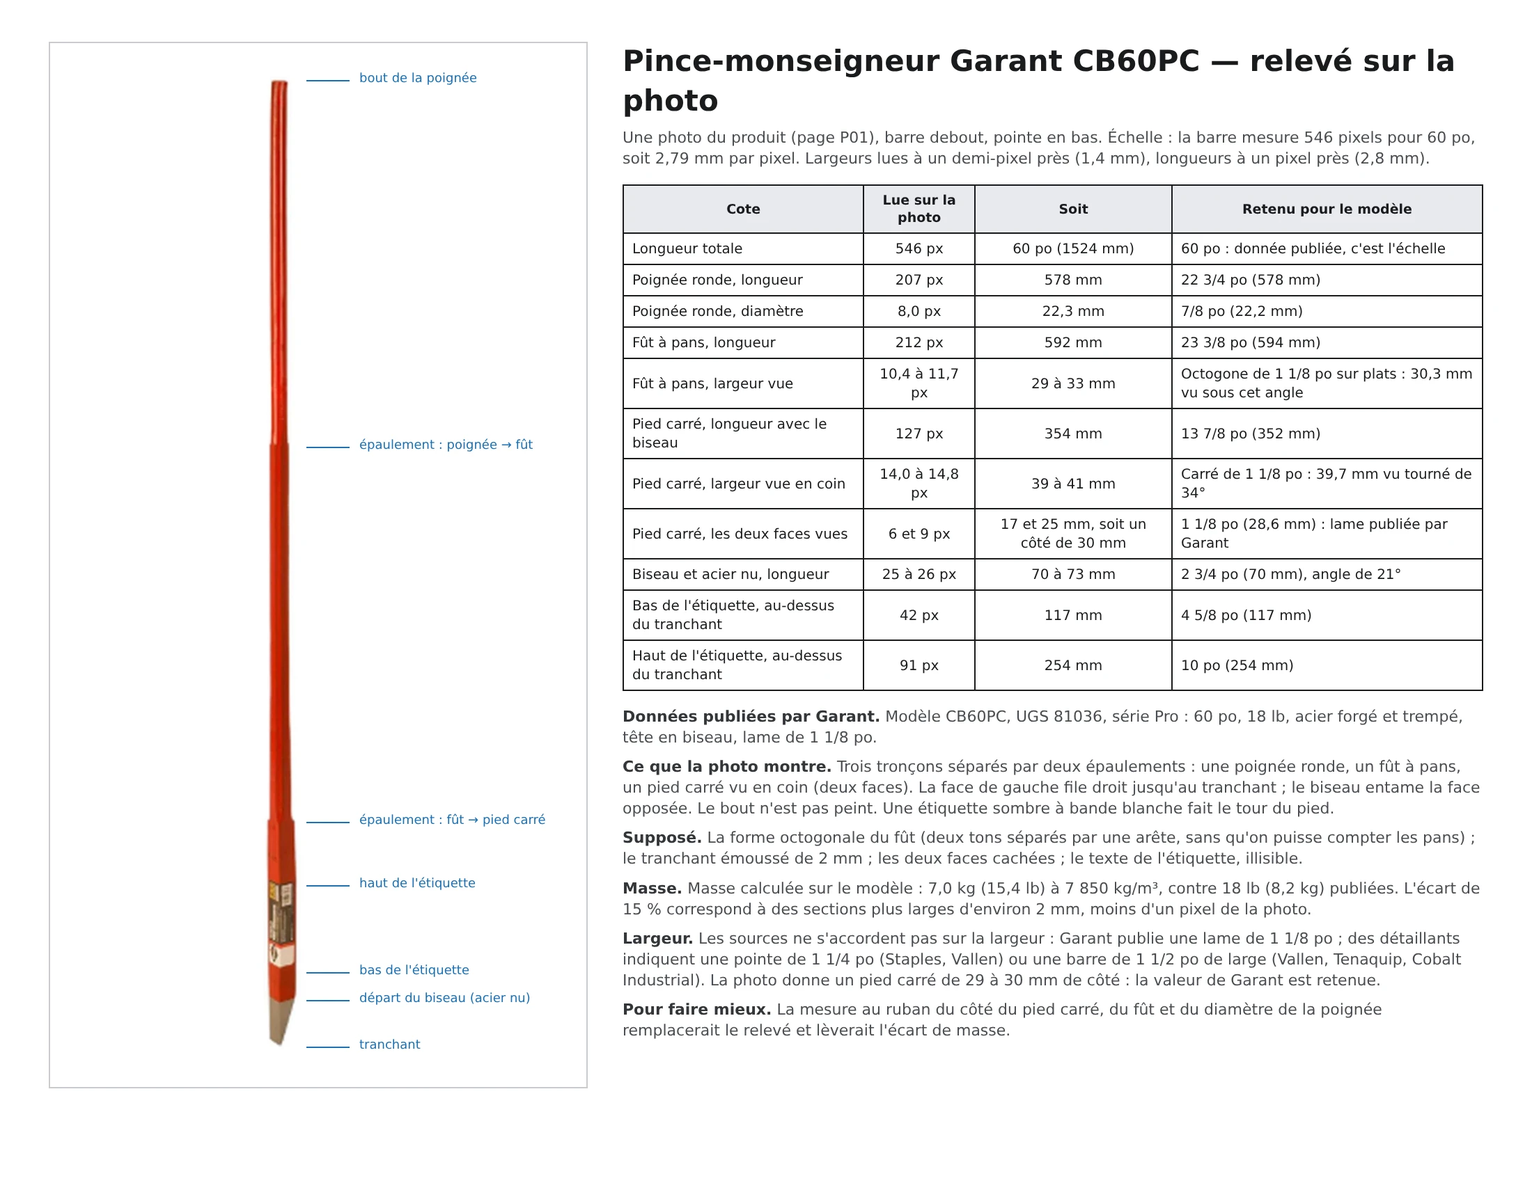
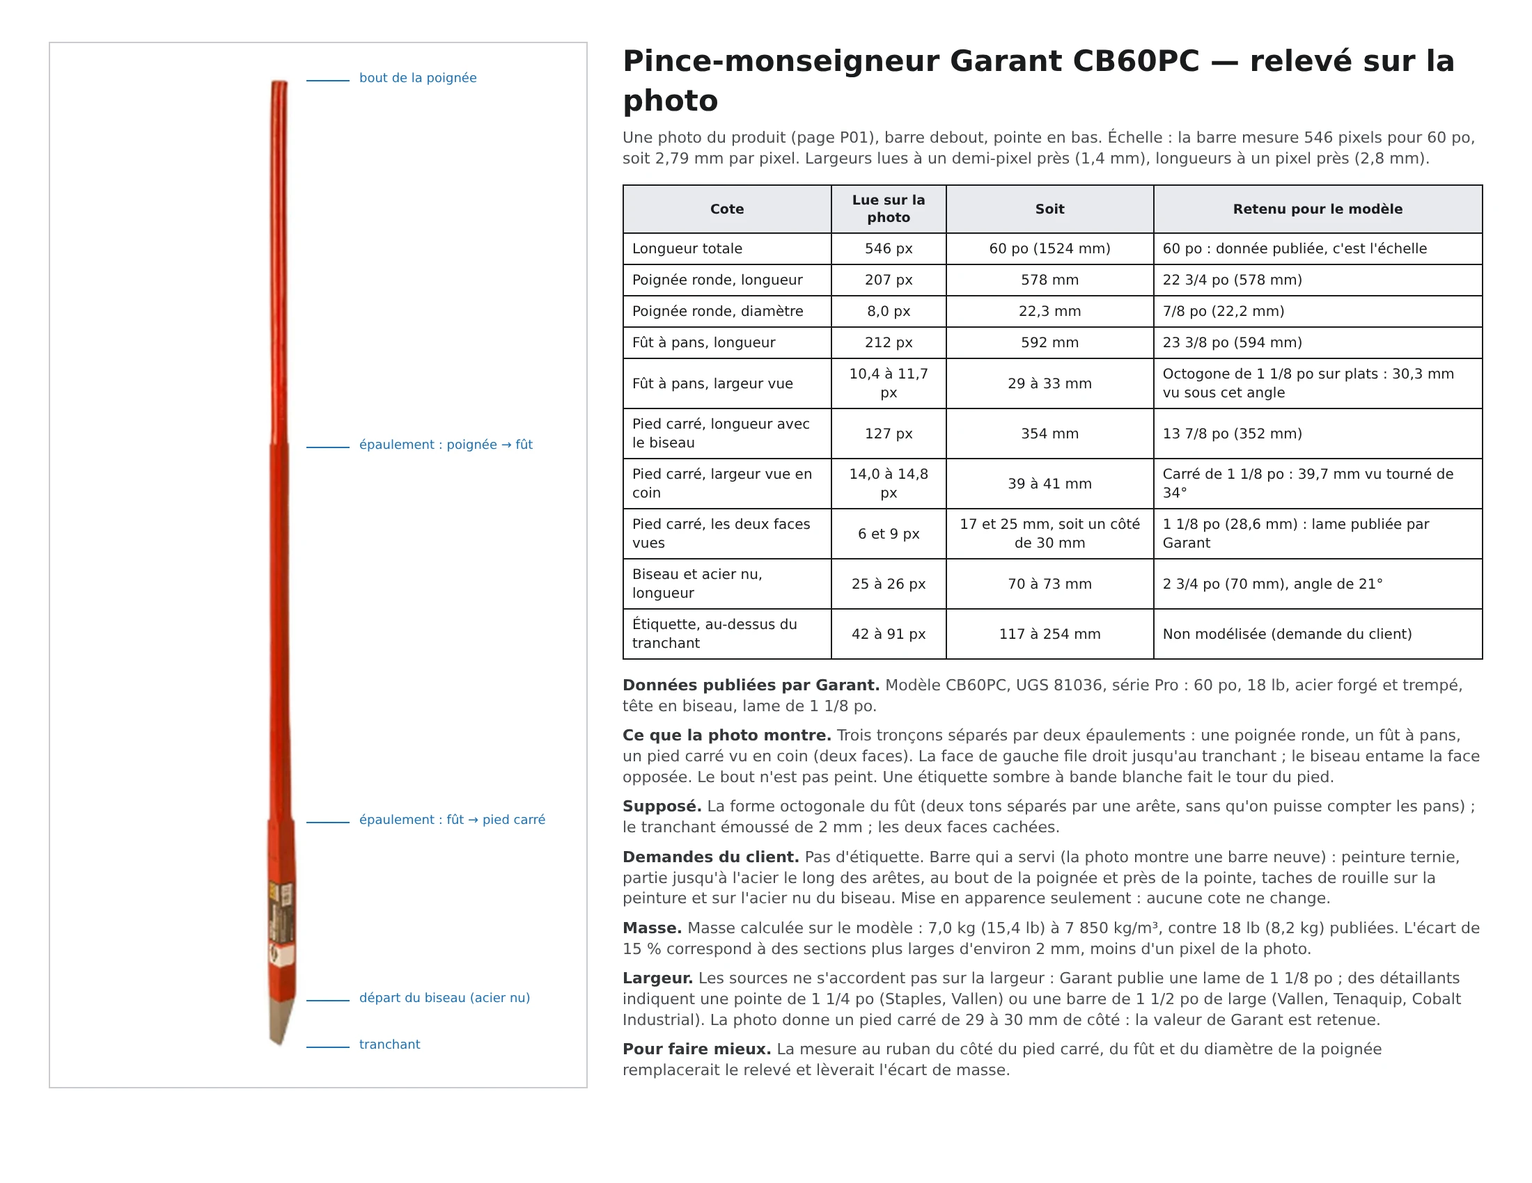
Pince-monseigneur : étiquette retirée, barre usée et piquée de rouille (demandes du client)
Peinture ternie, partie jusqu'à l'acier le long des arêtes, au bout de la
poignée et près de la pointe ; taches de rouille sur la peinture et sur l'acier
nu du biseau. Mise en apparence seulement : aucune cote ne change. En vue
éclatée, les quatre zones s'écartent pour montrer les sections.

Matériaux : réglage « wear » des finitions (acier à nu par plaques et où
l'attribut aWear du maillage est élevé), réglages par-dessus une finition de la
palette dans withFinish(), rouille non métallique sur un métal.

Fiche, page du relevé, vignette et README mis à jour.

Claude-Session: https://claude.ai/code/session_015N4WstEPpKJFqsFo6BBpyB

diff --git a/src/models/pince-monseigneur/index.js b/src/models/pince-monseigneur/index.js
@@ -8,7 +8,13 @@
 // Tout le reste est relevé sur la photo, à un demi-pixel près (1,4 mm) sur les
 // largeurs et un pixel (2,8 mm) sur les longueurs, puis arrondi au 1/8 po :
 // longueurs des trois tronçons, diamètre de la poignée, longueur du biseau
-// (laissé en acier nu), place de l'étiquette.
+// (laissé en acier nu).
+//
+// Demandes du client : pas d'étiquette (la photo en montre une, enroulée sur le
+// pied carré), et une barre qui a servi — peinture usée jusqu'à l'acier sur les
+// arêtes, au bout de la poignée et près de la pointe, taches de rouille. La
+// photo montre une barre neuve : l'usure est une mise en apparence, elle ne
+// change aucune cote.
 //
 // Repère de la barre, en millimètres : s le long de l'axe, de 0 (bout de la
 // poignée) à L (tranchant) ; u et v en travers. La face v = +h est la face
@@ -36,8 +42,6 @@ export const PIED = { long: L - POIGNEE.long - FUT.long };
 export const BISEAU = { long: (2 + 3 / 4) * IN, tranchant: 2 };
 /** Épaulements : poignée → fût (flare d'environ 2,5 px), fût → pied (1 à 2 px). */
 export const EPAULE = { fut: 8, pied: 6 };
-/** Étiquette enroulée sur le pied carré : distances au tranchant relevées sur la photo. */
-export const ETIQUETTE = { bas: (4 + 5 / 8) * IN, haut: 10 * IN, blanc: 0.27 };
 /** Masse volumique de l'acier (kg/m³), pour le contrôle de la masse. */
 export const ACIER = 7850;
 
@@ -68,14 +72,31 @@ function section(rho) {
 const entre = (a, b, t) => section((phi) => a(phi) + (b(phi) - a(phi)) * S01(t));
 
 /**
- * Volume fermé passant par des sections [{ s, pts }] de N points, dans le
- * repère du modèle : s le long de −X (pointe à gauche), u le long de −Z,
- * v le long de Y, axe à h du sol. Arêtes de moins de 30° lissées.
+ * Usure par point d'une section (attribut aWear, voir withFinish) : fond partout, 1 sur les
+ * arêtes (un sommet tous les `pas` points) et `voisin` sur les points d'à côté.
  */
-function volume(sections) {
-  const rings = sections.map(({ s, pts }) => pts.map(([u, v]) => place(s, u, v)));
-  const pos = [];
-  const tri = (a, b, c) => pos.push(...a, ...b, ...c);
+function usure(fond, pas = 0, voisin = 0) {
+  const w = new Array(N).fill(fond);
+  if (pas) for (let j = pas / 2; j < N; j += pas) { w[j] = 1; for (const k of [j - 1, j + 1]) w[(k + N) % N] = Math.max(fond, voisin); }
+  return w;
+}
+const melange = (a, b, t) => a.map((v, j) => v + (b[j] - v) * S01(t));
+/** Fond d'usure des trois tronçons (mains sur la poignée, travail près de la pointe) et arêtes. */
+const USURE = { bout: 1, poignee: 0.42, fut: 0.12, pied: 0.16, pointe: 0.6, coupe: 0 };
+const usurePoignee = () => usure(USURE.poignee);
+const usureFut = () => usure(USURE.fut, 8, 0.45);
+const usurePied = (fond = USURE.pied) => usure(fond, 16, Math.max(0.35, fond));
+
+/**
+ * Volume fermé passant par des sections [{ s, pts, w }] de N points (w : usure
+ * par point), dans le repère du modèle : s le long de −X (pointe à gauche),
+ * u le long de −Z, v le long de Y, axe à h du sol. bouts : usure des deux
+ * faces d'extrémité. Arêtes de moins de 30° lissées.
+ */
+function volume(sections, bouts = [USURE.coupe, USURE.coupe]) {
+  const rings = sections.map(({ s, pts, w }) => pts.map(([u, v], j) => ({ p: place(s, u, v), w: w[j] })));
+  const pos = [], wear = [];
+  const tri = (...abc) => abc.forEach(({ p, w }) => { pos.push(...p); wear.push(w); });
   for (let i = 0; i < rings.length - 1; i++) {
     const A = rings[i], B = rings[i + 1];
     for (let j = 0; j < N; j++) {
@@ -84,17 +105,18 @@ function volume(sections) {
       tri(A[j], B[k], B[j]);
     }
   }
-  const bouche = (ring, sens) => {
-    const c = [0, 0, 0];
-    ring.forEach((p) => { c[0] += p[0] / N; c[1] += p[1] / N; c[2] += p[2] / N; });
+  const bouche = (ring, sens, w) => {
+    const c = { p: [0, 0, 0], w };
+    ring.forEach(({ p }) => { c.p[0] += p[0] / N; c.p[1] += p[1] / N; c.p[2] += p[2] / N; });
+    const bord = ring.map(({ p }) => ({ p, w }));
     for (let j = 0; j < N; j++) {
       const k = (j + 1) % N;
-      if (sens) tri(c, ring[k], ring[j]); else tri(c, ring[j], ring[k]);
+      if (sens) tri(c, bord[k], bord[j]); else tri(c, bord[j], bord[k]);
     }
   };
-  bouche(rings[0], true);
-  bouche(rings[rings.length - 1], false);
-  return solide(pos);
+  bouche(rings[0], true, bouts[0]);
+  bouche(rings[rings.length - 1], false, bouts[1]);
+  return solide(pos, wear);
 }
 
 /** Point du repère de la barre (s, u, v en mm) dans le repère du modèle (m). */
@@ -102,11 +124,15 @@ function place(s, u, v) {
   return [(L / 2 - s) * MM, (h + v) * MM, -u * MM];
 }
 
-/** Géométrie fermée à partir de triangles : faces tournées vers l'extérieur, normales lissées sous 30°. */
-function solide(pos) {
-  if (volumeSigne(pos) < 0) for (let i = 0; i < pos.length; i += 9) for (let k = 0; k < 3; k++) { const t = pos[i + 3 + k]; pos[i + 3 + k] = pos[i + 6 + k]; pos[i + 6 + k] = t; }
+/** Géométrie fermée à partir de triangles : faces tournées vers l'extérieur, normales lissées sous 30°, usure par sommet. */
+function solide(pos, wear) {
+  if (volumeSigne(pos) < 0) {
+    for (let i = 0; i < pos.length; i += 9) for (let k = 0; k < 3; k++) { const t = pos[i + 3 + k]; pos[i + 3 + k] = pos[i + 6 + k]; pos[i + 6 + k] = t; }
+    for (let i = 0; i < wear.length; i += 3) { const t = wear[i + 1]; wear[i + 1] = wear[i + 2]; wear[i + 2] = t; }
+  }
   const geo = new THREE.BufferGeometry();
   geo.setAttribute('position', new THREE.Float32BufferAttribute(pos, 3));
+  geo.setAttribute('aWear', new THREE.Float32BufferAttribute(wear, 1));
   return creaseNormals(geo, (30 * Math.PI) / 180);
 }
 
@@ -135,55 +161,46 @@ function teinte(nom, creer) {
   }
   return m;
 }
-/** Peinture rouge orangé brillante de la photo (teinte relevée sur les faces éclairées). */
+/**
+ * Peinture rouge orangé de la photo (teinte relevée sur les faces éclairées), ternie par l'usage :
+ * moins de vernis, salissures, taches de rouille, acier à nu où l'usure du maillage est forte.
+ */
 const rouge = () => teinte('pince-monseigneur-rouge', () => withFinish(new THREE.MeshPhysicalMaterial({
-  color: 0xc22a0d, metalness: 0, roughness: 0.4, specularIntensity: 1, clearcoat: 0.75, clearcoatRoughness: 0.14,
-}), 'paint'));
-/** Acier nu de la pointe : gris mat sur la photo. */
+  color: 0xb9280d, metalness: 0, roughness: 0.5, specularIntensity: 1, clearcoat: 0.45, clearcoatRoughness: 0.3,
+}), 'paint', { tint: 0.15, rough: 0.24, rust: 0.17, rs: 26, wear: 0.5 }));
+/** Acier nu de la pointe : gris mat sur la photo, piqué de rouille. */
 const acierNu = () => teinte('pince-monseigneur-acier', () => withFinish(new THREE.MeshStandardMaterial({
   color: 0x9c968c, metalness: 0.9, roughness: 0.5,
-}), 'machined'));
-
-/** Image dessinée sur un canevas (aucune hors navigateur : la couleur unie reste). */
-function image(nom, w, ht, dessin) {
-  if (typeof document === 'undefined') return null;
-  if (perso.has(`img:${nom}`)) return perso.get(`img:${nom}`);
-  const c = document.createElement('canvas');
-  c.width = w; c.height = ht;
-  dessin(c.getContext('2d'), w, ht);
-  const t = new THREE.CanvasTexture(c);
-  t.colorSpace = THREE.SRGBColorSpace;
-  t.anisotropy = 4;
-  perso.set(`img:${nom}`, t);
-  return t;
-}
+}), 'machined', { rust: 0.3, rs: 30 }));
 
 // ------------------------------------------------------------------ zones de la barre
 
-/** Repère 1 : poignée ronde, bout coupé droit à arête cassée. */
+/** Repère 1 : poignée ronde, bout coupé droit à arête cassée ; le bout est le plus usé. */
 function poignee() {
   const r = POIGNEE.d / 2, c = POIGNEE.chanfrein;
   return new THREE.Mesh(volume([
-    { s: 0, pts: section(rond(r - c)) },
-    { s: c, pts: section(rond(r)) },
-    { s: S_FUT - EPAULE.fut, pts: section(rond(r)) },
-  ]), rouge());
+    { s: 0, pts: section(rond(r - c)), w: usure(USURE.bout) },
+    { s: c, pts: section(rond(r)), w: usure(USURE.bout) },
+    { s: 45, pts: section(rond(r)), w: usurePoignee() },
+    { s: S_FUT - EPAULE.fut, pts: section(rond(r)), w: usurePoignee() },
+  ], [USURE.bout, USURE.coupe]), rouge());
 }
 
 /** Repère 2 : fût octogonal, avec l'épaulement qui le raccorde à la poignée. */
 function fut() {
   const r = rond(POIGNEE.d / 2);
   const sections = [];
-  for (let k = 0; k <= 6; k++) sections.push({ s: S_FUT - EPAULE.fut * (1 - k / 6), pts: entre(r, octogone, k / 6) });
-  sections.push({ s: S_PIED - EPAULE.pied, pts: section(octogone) });
+  for (let k = 0; k <= 6; k++) sections.push({ s: S_FUT - EPAULE.fut * (1 - k / 6), pts: entre(r, octogone, k / 6), w: melange(usurePoignee(), usureFut(), k / 6) });
+  sections.push({ s: S_PIED - EPAULE.pied, pts: section(octogone), w: usureFut() });
   return new THREE.Mesh(volume(sections), rouge());
 }
 
-/** Repère 3 : pied carré peint, avec l'épaulement où les pans coupés du fût s'effacent. */
+/** Repère 3 : pied carré peint, avec l'épaulement où les pans coupés du fût s'effacent ; plus usé vers la pointe. */
 function pied() {
   const sections = [];
-  for (let k = 0; k <= 4; k++) sections.push({ s: S_PIED - EPAULE.pied * (1 - k / 4), pts: entre(octogone, carre, k / 4) });
-  sections.push({ s: S_BISEAU, pts: section(carre) });
+  for (let k = 0; k <= 4; k++) sections.push({ s: S_PIED - EPAULE.pied * (1 - k / 4), pts: entre(octogone, carre, k / 4), w: melange(usureFut(), usurePied(), k / 4) });
+  sections.push({ s: S_BISEAU - 90, pts: section(carre), w: usurePied() });
+  sections.push({ s: S_BISEAU, pts: section(carre), w: usurePied(USURE.pointe) });
   return new THREE.Mesh(volume(sections), rouge());
 }
 
@@ -215,57 +232,6 @@ function pointe() {
   return new THREE.Mesh(geo, acierNu());
 }
 
-/** Dessin de l'étiquette déroulée : quatre faces côte à côte, le haut vers la poignée. */
-function dessinEtiquette(x, w, ht) {
-  const f = w / 4, y1 = ht * (1 - ETIQUETTE.blanc);
-  x.fillStyle = '#2b2420'; x.fillRect(0, 0, w, y1);
-  x.fillStyle = '#f1efe9'; x.fillRect(0, y1, w, ht - y1);
-  const lignes = (x0, y0, n, large, couleur) => {
-    x.fillStyle = couleur;
-    for (let i = 0; i < n; i++) x.fillRect(x0, y0 + i * ht * 0.03, large * (0.95 - (i % 3) * 0.17), ht * 0.007);
-  };
-  // Face plate : pastille jaune en haut à gauche, texte suggéré, rond du bas de l'étiquette.
-  x.fillStyle = '#e0b01f'; x.fillRect(f * 0.08, ht * 0.02, f * 0.42, ht * 0.14);
-  lignes(f * 0.13, ht * 0.045, 3, f * 0.3, '#2b2420');
-  lignes(f * 0.1, ht * 0.21, 14, f * 0.8, '#857e74');
-  x.strokeStyle = '#1d1a18'; x.lineWidth = f * 0.07;
-  x.beginPath(); x.arc(f * 0.3, (y1 + ht) / 2, f * 0.2, 0, 2 * Math.PI); x.stroke();
-  x.strokeStyle = '#b3221a'; x.lineWidth = f * 0.05;
-  x.beginPath(); x.arc(f * 0.3, (y1 + ht) / 2, f * 0.1, 0.25 * Math.PI, 1.75 * Math.PI); x.stroke();
-  // Face voisine : cartouche blanc en haut, texte suggéré.
-  x.fillStyle = '#f1efe9'; x.fillRect(f * 1.3, ht * 0.02, f * 0.6, ht * 0.17);
-  lignes(f * 1.36, ht * 0.04, 4, f * 0.48, '#2b2420');
-  lignes(f * 1.1, ht * 0.24, 13, f * 0.8, '#857e74');
-  // Faces cachées sur la photo : texte suggéré seulement.
-  for (const k of [2, 3]) lignes(f * (k + 0.1), ht * 0.05, 19, f * 0.8, '#857e74');
-}
-
-/** Repère 5 : étiquette enroulée sur les quatre faces du pied carré. */
-function etiquette() {
-  const sa = L - ETIQUETTE.haut, sb = L - ETIQUETTE.bas; // haut (vers la poignée) et bas
-  const d = h + 0.06; // à peine décollée de la peinture
-  const pos = [], uv = [], idx = [];
-  // Faces dans l'ordre de l'étiquette déroulée : plate (v+), voisine (u−, vers l'avant du modèle), opposée, arrière.
-  const faces = [[[0, 1], [-1, 0]], [[-1, 0], [0, -1]], [[0, -1], [1, 0]], [[1, 0], [0, 1]]]; // [normale, droite] en (u, v)
-  faces.forEach(([n, t], k) => {
-    const base = pos.length / 3;
-    for (const [c, s, v] of [[-1, sb, 0], [1, sb, 0], [1, sa, 1], [-1, sa, 1]]) {
-      pos.push(...place(s, n[0] * d + t[0] * c * h, n[1] * d + t[1] * c * h));
-      uv.push((k + (c + 1) / 2) / 4, v);
-    }
-    idx.push(base, base + 1, base + 2, base, base + 2, base + 3);
-  });
-  const geo = new THREE.BufferGeometry();
-  geo.setAttribute('position', new THREE.Float32BufferAttribute(pos, 3));
-  geo.setAttribute('uv', new THREE.Float32BufferAttribute(uv, 2));
-  geo.setIndex(idx);
-  geo.computeVertexNormals();
-  const haut = ETIQUETTE.haut - ETIQUETTE.bas;
-  const map = image('pince-monseigneur-etiquette', 1024, Math.round((1024 * haut) / (4 * CARRE)), dessinEtiquette);
-  const m = teinte('pince-monseigneur-etiquette', () => new THREE.MeshStandardMaterial(map ? { map, metalness: 0, roughness: 0.5 } : { color: 0x2b2420, metalness: 0, roughness: 0.5 }));
-  return new THREE.Mesh(geo, m);
-}
-
 // ------------------------------------------------------------------ contrôle
 
 /** Volume d'acier du modèle (m³) et masse à 7 850 kg/m³, à comparer aux 18 lb publiées. */
@@ -282,12 +248,12 @@ export const angleBiseau = () => (Math.atan((CARRE - BISEAU.tranchant) / BISEAU.
 // ------------------------------------------------------------------ assemblage
 
 export function P01(api) {
-  // Barre forgée d'une seule pièce : les repères 1 à 4 désignent ses zones, qui ne se séparent pas.
-  api.part('1', poignee(), [0, 0, 0]);
+  // Barre forgée d'une seule pièce : les repères 1 à 4 désignent ses zones. En vue éclatée, elles
+  // s'écartent le long de l'axe pour montrer les trois sections (ronde, octogonale, carrée).
+  api.part('1', poignee(), [0.16, 0, 0]);
   api.part('2', fut(), [0, 0, 0]);
-  api.part('3', pied(), [0, 0, 0]);
-  api.part('4', pointe(), [0, 0, 0]);
-  api.part('5', etiquette(), [0, 0.09, 0]);
+  api.part('3', pied(), [-0.16, 0, 0]);
+  api.part('4', pointe(), [-0.26, 0, 0]);
   // Coupe proposée : en travers du fût octogonal.
   return { view: { dir: [-0.45, 0.5, 1], section: { axis: 'x', pos: 0.5 } } };
 }

diff --git a/src/viewer/materials.js b/src/viewer/materials.js
@@ -22,6 +22,8 @@ const FIN = {
   // Peinture écaillée : taches de rouille où la peinture a sauté. rust = part de la surface
   // touchée (0 à 1, à peu près), rs = fréquence des taches (1/m).
   paintRust: { fine: 0.018, wave: 0.005, rough: 0.16, tint: 0.07, fs: 14, cs: 0.9, env: 1, rust: 0.28, rs: 13 },
+  // Usure (réglage wear de withFinish, 0 à 1) : peinture partie par frottement, acier à nu, par
+  // plaques et surtout là où l'attribut aWear du maillage (0 à 1 par sommet : arêtes, bouts) est élevé.
   paintSatin: { fine: 0.026, wave: 0.007, rough: 0.2, tint: 0.09, fs: 14, cs: 0.9, env: 1 },
   // Peinture noire : se lit surtout par ses reflets (réflecteurs renforcés).
   paintDark: { fine: 0.02, wave: 0.005, rough: 0.16, tint: 0.07, fs: 14, cs: 0.9, env: 1.8 },
@@ -248,6 +250,20 @@ diffuseColor.rgb *= 1.0 + uSurfAmp.w * ( sBlot * 1.2 + sGrain * 0.4 );
 #include <roughnessmap_fragment>
 roughnessFactor = clamp( roughnessFactor * ( 1.0 + uSurfAmp.z * ( sBlot * 1.6 + sGrain * 0.8 ) ), 0.02, 1.0 );`;
 
+// Usure (finition avec wear) : la peinture est partie où le champ (attribut aWear du maillage
+// + taches) dépasse le seuil ; il reste l'acier, gris sombre, sans vernis. Rien sur les faces de coupe.
+const WEAR_FRAG = /* glsl */`
+vec4 wX = texture2D( uSurfTex, sP.zy * 23.0 + 0.41 );
+vec4 wY = texture2D( uSurfTex, sP.xz * 23.0 + 0.09 );
+vec4 wZ = texture2D( uSurfTex, sP.xy * 23.0 + 0.77 );
+float wB = dot( sW, vec3( wX.b, wY.b, wZ.b ) );
+float wA = dot( sW, vec3( wX.a, wY.a, wZ.a ) );
+float wField = vWear + ( wB - 0.5 ) * 0.9 + ( wA - 0.5 ) * 0.3;
+float wSeuil = 1.05 - uSurfWear;
+float sWear = smoothstep( wSeuil, wSeuil + 0.05, wField ) * ( gl_FrontFacing ? 1.0 : 0.0 );
+diffuseColor.rgb = mix( diffuseColor.rgb, vec3( 0.2, 0.185, 0.17 ) * ( 0.8 + 0.5 * wA ), sWear );
+roughnessFactor = mix( roughnessFactor, 0.5, sWear );`;
+
 // Rouille (finition avec rust) : taches aux bords déchiquetés, brun mat et rugueux, auréole
 // ternie autour ; rien sur les faces de coupe (faces arrière), qui gardent la teinte de la pièce.
 const RUST_FRAG = /* glsl */`
@@ -303,13 +319,17 @@ function injectSurface(shader, fin) {
   shader.uniforms.uSurfEnv = { value: fin.env ?? 1 };
   const G = !!fin.grain;
   const R = !!fin.rust;
+  const W = !!fin.wear;
   if (R) shader.uniforms.uSurfRust = { value: new THREE.Vector2(fin.rust, fin.rs || 9) };
+  if (W) shader.uniforms.uSurfWear = { value: fin.wear };
   shader.vertexShader = shader.vertexShader
-    .replace('#include <common>', SURF_VERT_PARS + (G ? GRAIN_VERT : ''))
-    .replace('#include <begin_vertex>', SURF_VERT + (G ? '\nvGrain = aGrain;' : ''));
+    .replace('#include <common>', SURF_VERT_PARS + (G ? GRAIN_VERT : '') + (W ? '\nattribute float aWear;\nvarying float vWear;' : ''))
+    .replace('#include <begin_vertex>', SURF_VERT + (G ? '\nvGrain = aGrain;' : '') + (W ? '\nvWear = aWear;' : ''));
   shader.fragmentShader = shader.fragmentShader
-    .replace('#include <common>', SURF_FRAG_PARS + (G ? '\nvarying vec3 vGrain;\nuniform float uSurfGrain;' : '') + (R ? '\nuniform vec2 uSurfRust;' : ''))
-    .replace('#include <roughnessmap_fragment>', SURF_FRAG + (G ? GRAIN_FRAG : '') + (R ? RUST_FRAG : ''))
+    .replace('#include <common>', SURF_FRAG_PARS + (G ? '\nvarying vec3 vGrain;\nuniform float uSurfGrain;' : '') + (R ? '\nuniform vec2 uSurfRust;' : '') + (W ? '\nvarying float vWear;\nuniform float uSurfWear;' : ''))
+    .replace('#include <roughnessmap_fragment>', SURF_FRAG + (G ? GRAIN_FRAG : '') + (W ? WEAR_FRAG : '') + (R ? RUST_FRAG : ''))
+    // Acier à nu sous la peinture usée : métallique ; la rouille, elle, ne l'est jamais.
+    .replace('#include <metalnessmap_fragment>', `#include <metalnessmap_fragment>${W ? '\nmetalnessFactor = mix( metalnessFactor, 0.85, sWear );' : ''}${R ? '\nmetalnessFactor *= 1.0 - sRust;' : ''}`)
     .replace('#include <normal_fragment_maps>', `#include <normal_fragment_maps>
 normal = normalize( normal + faceDirection * sDelta );`)
     .replace('#include <clearcoat_normal_fragment_begin>', `#include <clearcoat_normal_fragment_begin>
@@ -322,7 +342,7 @@ normal = normalize( normal + faceDirection * sDelta );`)
 #endif`)
     .replace('#include <lights_physical_fragment>', `#include <lights_physical_fragment>
 #ifdef USE_CLEARCOAT
-  material.clearcoatRoughness = clamp( material.clearcoatRoughness * ( 1.0 + uSurfAmp.z * 2.5 * sBlot ), 0.02, 1.0 );${R ? '\n  material.clearcoat *= 1.0 - sRust;' : ''}
+  material.clearcoatRoughness = clamp( material.clearcoatRoughness * ( 1.0 + uSurfAmp.z * 2.5 * sBlot ), 0.02, 1.0 );${R ? '\n  material.clearcoat *= 1.0 - sRust;' : ''}${W ? '\n  material.clearcoat *= 1.0 - sWear;' : ''}
 #endif`);
 }
 
@@ -356,7 +376,7 @@ function setupProgram(m, cap, dir = 1) {
     if (fin) injectSurface(shader, fin);
     if (cap) shader.fragmentShader = shader.fragmentShader.replace('#include <dithering_fragment>', capShader(dir));
   };
-  const key = `${fin ? `surf${fin.grain ? '-grain' : ''}${fin.rust ? '-rust' : ''}` : ''}${cap ? `-section-cap-${dir}` : ''}`;
+  const key = `${fin ? `surf${fin.grain ? '-grain' : ''}${fin.rust ? '-rust' : ''}${fin.wear ? '-wear' : ''}` : ''}${cap ? `-section-cap-${dir}` : ''}`;
   m.customProgramCacheKey = () => key;
 }
 
@@ -388,11 +408,13 @@ export function mat(name) {
 /**
  * Donne une finition réaliste (relief, rugosité inégale) à un matériau créé
  * hors palette. preset : 'paint' | 'paintSatin' | 'machined' | 'chrome' |
- * 'cast' | 'rubber' | 'plastic'. Retourne le matériau.
+ * 'cast' | 'rubber' | 'plastic'. reglages : valeurs qui remplacent celles de
+ * la finition (ex. { rust: 0.2, rs: 16, wear: 0.5 } pour une peinture usée et
+ * rouillée). Retourne le matériau.
  */
-export function withFinish(material, preset = 'paint') {
+export function withFinish(material, preset = 'paint', reglages = null) {
   if (!FIN[preset]) throw new Error(`Finition inconnue : ${preset}`);
-  material.userData.fin = preset;
+  material.userData.fin = reglages ? { ...FIN[preset], ...reglages } : preset;
   setupProgram(material, false);
   material.needsUpdate = true;
   return material;

diff --git a/README.md b/README.md
@@ -550,12 +550,18 @@ pièces (numéro, quantité, page du manuel).
   demi-pixel près, longueurs à un pixel près) et arrondi au 1/8 po : poignée
   ronde de Ø 7/8 po sur 22 3/4 po, fût octogonal de 1 1/8 po sur plats sur
   23 3/8 po, pied carré sur 13 7/8 po, biseau d'un seul côté de 2 3/4 po laissé
-  en acier nu, peinture rouge orangé, étiquette enroulée sur le pied (dessin
-  générique : texte illisible). Supposé : le nombre de pans du fût, le
-  tranchant émoussé de 2 mm, les faces cachées de l'étiquette. La barre est un
+  en acier nu, peinture rouge orangé. Supposé : le nombre de pans du fût et le
+  tranchant émoussé de 2 mm. Demandes du client : pas d'étiquette (la photo en
+  montre une sur le pied), et une barre qui a servi — peinture ternie, partie
+  jusqu'à l'acier le long des arêtes, au bout de la poignée et près de la
+  pointe, taches de rouille sur la peinture et sur le biseau ; c'est une mise
+  en apparence, aucune cote ne change. L'usure vient d'un réglage `wear` de
+  `withFinish()` (`src/viewer/materials.js`) et d'un attribut `aWear` par
+  sommet du maillage (1 sur les arêtes et les bouts). La barre est un
   volume passant par des sections de 64 points (rond, octogone, carré ;
   `volume()` dans `src/models/pince-monseigneur/index.js`) ; les repères 1 à 4
-  désignent ses zones, qui ne se séparent pas en vue éclatée. Contrôle de la
+  désignent ses zones, qui s'écartent en vue éclatée pour montrer les trois
+  sections (la barre réelle ne se démonte pas). Contrôle de la
   masse : 7,0 kg (15,4 lb) calculés à 7 850 kg/m³ contre 18 lb publiées, écart
   qui correspond à des sections plus larges d'environ 2 mm, moins d'un pixel de
   la photo ; les détaillants indiquent d'ailleurs 1 1/4 ou 1 1/2 po de large là
